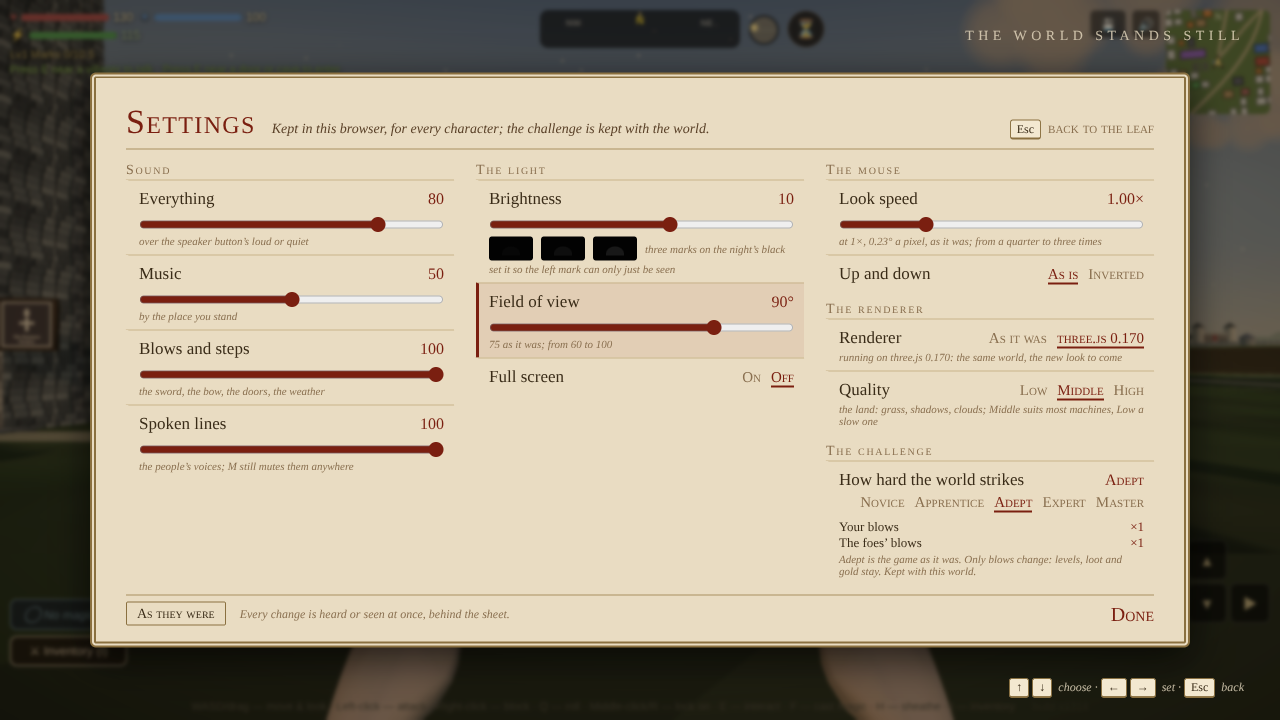
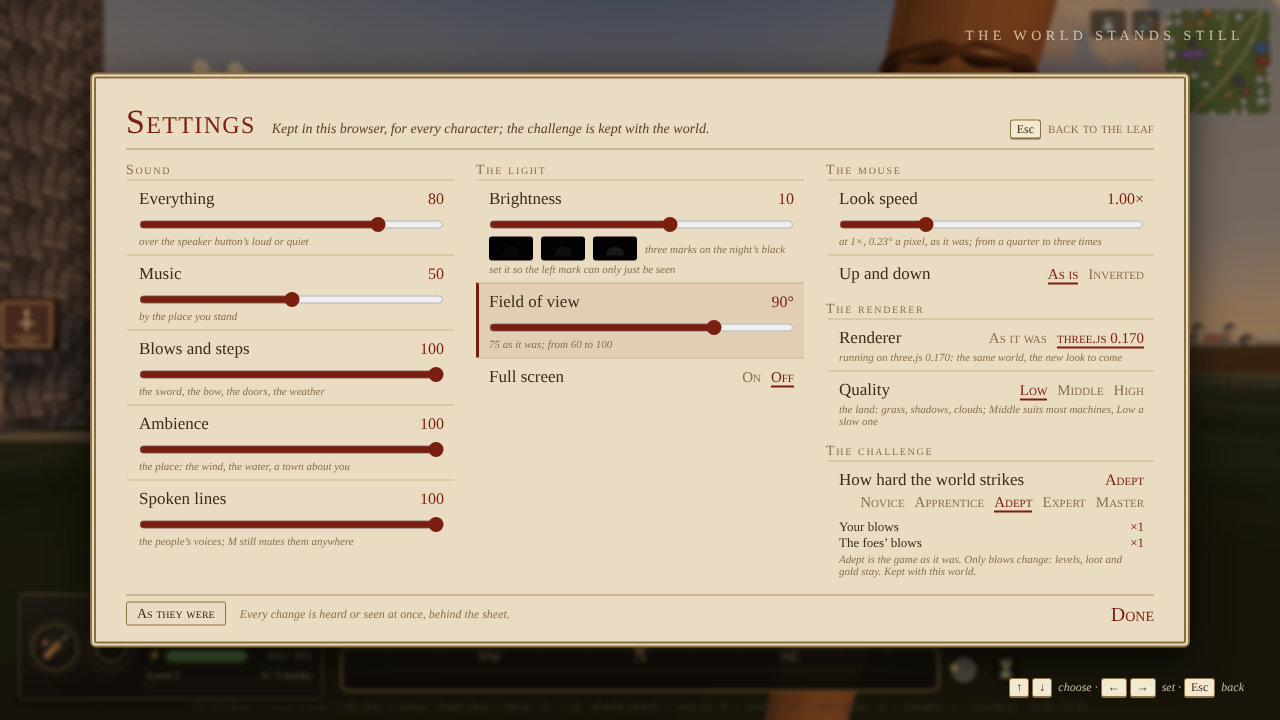
Systems: Session 2726 — what a place sounds like, 1: the Ambience bus, the wind and the water (#2071 B)
Claude-Session: https://claude.ai/code/session_019eFMMmJMQ1Hv4YA5VuFeri

diff --git a/js/72-audio.js b/js/72-audio.js
@@ -4,7 +4,7 @@
 // AUDIO SYSTEM
 // ══════════════════════════════════════════════════════════════════════════
 let AX=null; // AudioContext — created on first user interaction
-let masterGain=null,sfxGain=null,musicGain=null,uiGain=null;
+let masterGain=null,sfxGain=null,musicGain=null,uiGain=null,ambGain=null;
 let volLevel=2; // 0=mute 1=quiet 2=loud
 const VOL_ICONS=['🔇','🔉','🔊'];
 const VOL_MUSIC=[0,0.18,0.38];
@@ -27,6 +27,7 @@ function initAudio(){
     musicGain=AX.createGain();musicGain.gain.value=VOL_MUSIC[volLevel]*volKind('music');musicGain.connect(masterGain);
     sfxGain=AX.createGain();sfxGain.gain.value=VOL_SFX[volLevel]*volKind('effects');sfxGain.connect(masterGain);
     uiGain=AX.createGain();uiGain.gain.value=VOL_SFX[volLevel]*.28*volKind('effects');uiGain.connect(masterGain);
+    ambGain=AX.createGain();ambGain.gain.value=VOL_SFX[volLevel]*AMB_LEVEL*volKind('ambience');ambGain.connect(masterGain); /* S2726 — the Ambience bus (#2071 B) */
     if(_initialMusicOverride){
       startMusic(_initialMusicOverride.zone, _initialMusicOverride.theme);
     } else {
@@ -39,13 +40,14 @@ function cycleVol(){
   document.getElementById('vol-btn').textContent=VOL_ICONS[volLevel];
   applyVolumes();
 }
-// S691 — the settings sheet's four volumes (everything, music, blows and steps, spoken lines) over the button's level
+// S691 — the settings sheet's four volumes (everything, music, blows and steps, spoken lines) over the button's level; S2726 a fifth, the place's own sound (ambience)
 function volKind(k){return (SETTINGS.master/100)*(SETTINGS[k]/100);}
 function applyVolumes(){
   if(!AX)return;
   musicGain.gain.setTargetAtTime(VOL_MUSIC[volLevel]*volKind('music'),AX.currentTime,.1);
   sfxGain.gain.setTargetAtTime(VOL_SFX[volLevel]*volKind('effects'),AX.currentTime,.1);
   if(uiGain)uiGain.gain.setTargetAtTime(VOL_SFX[volLevel]*.28*volKind('effects'),AX.currentTime,.1);
+  if(ambGain)ambGain.gain.setTargetAtTime(VOL_SFX[volLevel]*AMB_LEVEL*volKind('ambience'),AX.currentTime,.1);
 }
 
 // ── SFX HELPERS ───────────────────────────────────────────────────────────
@@ -669,3 +671,84 @@ function sndReturnOW(){
   sfxTone(440,520,.6,.12,'sine');
   sfxTone(550,640,.5,.08,'sine');
 }
+
+// ── WHAT A PLACE SOUNDS LIKE (Session 2726; Michael's B on #2071, the build sheet's first session) ──────────────────
+// The Ambience bus: every bed → one lowpass (the weather's damping) → the duck (× 0.7 while a piece plays) → ambGain (the effects'
+// level × 0.6 × the Ambience slider) → master. Outdoors in the open world, two beds: the wind (by height and island; a wood's canopy
+// takes some and adds the leaves) and the nearest water within 80 m (a river, a lake's lapping, the sea's swell). Everything here is
+// cosmetic (Math.random, the page's clock) and writes nothing to worldState. The tick runs from the main loop, every 0.25 s, indoors
+// too, so the beds fade at a door or a gate's mouth instead of hanging. AMB is the state the suite (placesound) reads.
+const AMB_LEVEL=.6,AMB_TICK=.25,AMB_WATER_R=80,AMB_WATER_PEAK=.10;
+const AMB_DAMP={clear:[18000,1],fog:[2000,.7],rain:[1200,.6],snow:[3000,.8],storm:[900,.5]};
+const AMB={on:false,v:null,t:0,open:false,island:null,height:0,forest:false,beds:{wind:0,leaves:0,water:0,waterKind:null,waterD:Infinity},
+  gust:false,gustPh:0,gustP:7,gustMul:1,cut:18000,dampMul:1,duck:1,nodes:0};
+function ambEnsure(){if(AMB.v)return true;if(!AX||!ambGain)return false;
+  try{const n=AX.sampleRate*4,buf=AX.createBuffer(1,n,AX.sampleRate),d=buf.getChannelData(0);let b=0;
+    for(let i=0;i<n;i++){const w=Math.random()*2-1;b=b*.98+w*.02;d[i]=w*.5+b*3;} /* one 4 s noise with a brown body, shared by every bed */
+    const src=AX.createBufferSource();src.buffer=buf;src.loop=true;
+    const damp=AX.createBiquadFilter();damp.type='lowpass';damp.frequency.value=18000;damp.Q.value=.5;
+    const duck=AX.createGain();duck.gain.value=1;damp.connect(duck);duck.connect(ambGain);
+    const pan=AX.createStereoPanner?AX.createStereoPanner():null;if(pan)pan.connect(damp);const wOut=pan||damp;
+    let count=3+(pan?1:0);
+    const voice=(type,f,q,out)=>{const fl=AX.createBiquadFilter();fl.type=type;fl.frequency.value=f;fl.Q.value=q;const g=AX.createGain();g.gain.value=0;src.connect(fl);fl.connect(g);g.connect(out);count+=2;return {f:fl,g};};
+    const lapped=(type,f,q,hz,depth)=>{const lap=AX.createGain();lap.gain.value=1-depth;lap.connect(wOut);const o=AX.createOscillator();o.frequency.value=hz;const og=AX.createGain();og.gain.value=depth;o.connect(og);og.connect(lap.gain);o.start();count+=3;const v=voice(type,f,q,lap);v.lfo=o;return v;};
+    const v={src,damp,duck,pan,
+      wind:voice('bandpass',500,.7,damp),
+      leaves:voice('bandpass',4000,.8,damp),
+      river:voice('bandpass',900,1,wOut),
+      lake:lapped('lowpass',520,.5,.5,.45),          /* lapping at 0.5 Hz */
+      sea:lapped('lowpass',700,.4,1/(9+Math.random()*3),.6)}; /* the surf's 9–12 s swell */
+    src.start();AMB.v=v;AMB.nodes=count;AMB.on=true;return true;}catch(e){console.warn('ambience',e);return false;}}
+// the weather's damping: each kind's cutoff (blended in log frequency) and level, by how far the weather has turned (WX.k)
+function ambDampTarget(){const out=[18000,1];if(typeof WX==='undefined'||!WX)return out;const cur=WX.type,nxt=WX.next,mix=(nxt!==cur)?(WX.k||0):0;
+  let lf=0,m=0;const add=(t,w)=>{if(w<=0)return;const D=AMB_DAMP[t]||AMB_DAMP.clear;lf+=w*Math.log(D[0]);m+=w*D[1];};add(cur,1-mix);add(nxt,mix);
+  out[0]=Math.exp(lf);out[1]=m;return out;}
+// the nearest water within 80 m: a river or a lake from the routed carve grid (RVG, the same whether a cell is loaded or not),
+// the sea where the land is under SEA_Y on 8 bearings at 10, 25, 50 and 80 m (and under your feet). Returns {kind,d,bx,bz}.
+const _ambRs=[0,0];
+function ambFresh(x,z,R){let best=null;if(typeof RVG==='undefined'||typeof riverSample!=='function')return best;if(typeof RV!=='undefined'&&!RV.ready&&typeof routeWorld==='function')routeWorld();
+  const gx=Math.floor(x/RVSG),gz=Math.floor(z/RVSG),seen=new Set();
+  for(let i=gx-1;i<=gx+1;i++)for(let j=gz-1;j<=gz+1;j++){const bk=RVG.get(sgKey(i,j));if(!bk)continue;
+    for(const e of bk){if(e.lk){if(seen.has(e.lk))continue;seen.add(e.lk);const d=Math.max(0,Math.hypot(x-e.lk.x,z-e.lk.z)-e.lk.r);if(d<R&&(!best||d<best.d))best={kind:'lake',d,bx:e.lk.x,bz:e.lk.z};continue;}
+      riverSample(e.rv,e.i0,e.i1,x,z,_ambRs);const d=Math.max(0,_ambRs[0]-_ambRs[1]);if(d<R&&(!best||d<best.d))best={kind:'river',d,bx:x,bz:z};}}
+  return best;}
+function ambWater(x,z){let best=ambFresh(x,z,AMB_WATER_R);const fresh=best;
+  const wet=(sx,sz)=>{if(worldH(sx,sz)>=SEA_Y)return false;const f=ambFresh(sx,sz,1);return !f||f.d>0;}; /* under sea level, and not a lake's or a river's bed */
+  if(wet(x,z))return {kind:'sea',d:0,bx:x,bz:z};
+  let r0=0;for(const r of [10,25,50,80]){if(best&&best.d<=r)break;for(let k=0;k<8;k++){const a=k*Math.PI/4,sx=x+Math.sin(a)*r,sz=z+Math.cos(a)*r;
+    if(wet(sx,sz)){let lo=r0,hi=r;for(let n=0;n<4;n++){const m=(lo+hi)/2;if(wet(x+Math.sin(a)*m,z+Math.cos(a)*m))hi=m;else lo=m;} /* the shore found along that bearing to a metre or so */
+      if(!best||hi<best.d)best={kind:'sea',d:hi,bx:x+Math.sin(a)*hi,bz:z+Math.cos(a)*hi};}}if(best&&best.kind==='sea')break;r0=r;}
+  return best||fresh;}
+function ambSet(p,v,t,tau){try{p.setTargetAtTime(v,t,tau);}catch(e){p.value=v;}}
+function tickAmbience(dt){
+  const now=performance.now()/1000;if(now-AMB.t<AMB_TICK)return;AMB.t=now;
+  if(!AX||!ambGain)return;
+  const open=typeof activeZoneId!=='undefined'&&activeZoneId==='world'&&lid==='overworld'&&!(typeof isInterior==='function'&&isInterior());
+  AMB.open=open;if(!open&&!AMB.v)return;if(!ambEnsure())return;
+  const V=AMB.v,t=AX.currentTime,B=AMB.beds;
+  // the music's duck, eased over 3 s
+  const playing=typeof EXPLORE!=='undefined'&&EXPLORE.playing;AMB.duck=playing?.7:1;ambSet(V.duck.gain,AMB.duck,t,1);
+  // the damping
+  const D=open?ambDampTarget():[18000,1];AMB.cut=D[0];AMB.dampMul=D[1];ambSet(V.damp.frequency,D[0],t,.6);
+  if(!open){B.wind=B.leaves=B.water=0;B.waterKind=null;B.waterD=Infinity;AMB.gust=false;
+    for(const k of ['wind','leaves','river','lake','sea'])ambSet(V[k].g.gain,0,t,.33);return;} /* the world's beds fade over 1 s at the door */
+  // the wind: 0.05 at sea level, +0.03 per 50 m, at most 0.14; by island
+  let h=0;try{h=Math.max(0,worldH(px,pz)-SEA_Y);}catch(e){}AMB.height=h;
+  let isle='gatelands';try{const n=nationAt(px,pz);if(n==='mark'||n==='aurenne')isle=n;}catch(e){}AMB.island=isle;
+  let wind=Math.min(.14,.05+.03*h/50);
+  if(isle==='mark'){AMB.gust=true;AMB.gustPh+=AMB_TICK/AMB.gustP;if(AMB.gustPh>=1){AMB.gustPh-=1;AMB.gustP=5+Math.random()*5;}
+    const s=.5+.5*Math.sin(AMB.gustPh*Math.PI*2),lo=h>150?.4:.5,hi=h>150?1.9:1.6;AMB.gustMul=lo+(hi-lo)*s;wind*=AMB.gustMul;
+    ambSet(V.wind.f.frequency,620,t,.5);V.wind.f.type='bandpass';V.wind.f.Q.value=.5;}
+  else{AMB.gust=false;AMB.gustMul=1;
+    if(isle==='aurenne'){V.wind.f.type='lowpass';ambSet(V.wind.f.frequency,350,t,.5);V.wind.f.Q.value=.4;}
+    else{V.wind.f.type='bandpass';ambSet(V.wind.f.frequency,500,t,.5);V.wind.f.Q.value=.7;}}
+  let forest=false;try{forest=typeof specBiome==='function'&&specBiome(px,pz)==='forest';}catch(e){}AMB.forest=forest;
+  if(forest)wind*=.6;
+  B.wind=wind;B.leaves=forest?.035:0;
+  // the water
+  let W=null;try{W=ambWater(px,pz);}catch(e){}
+  const lvl=W?AMB_WATER_PEAK*Math.pow(Math.max(0,1-W.d/AMB_WATER_R),2):0;B.water=lvl;B.waterKind=W?W.kind:null;B.waterD=W?W.d:Infinity;
+  if(V.pan&&W){const dx=W.bx-px,dz=W.bz-pz,L=Math.hypot(dx,dz);ambSet(V.pan.pan,L>1?Math.max(-1,Math.min(1,(dx*Math.cos(yaw)-dz*Math.sin(yaw))/L*.6)):0,t,.2);}
+  const M=AMB.dampMul;
+  ambSet(V.wind.g.gain,B.wind*M,t,.4);ambSet(V.leaves.g.gain,B.leaves*M,t,.4);
+  for(const k of ['river','lake','sea'])ambSet(V[k].g.gain,(B.waterKind===k?lvl:0)*M,t,.4);}

diff --git a/js/92-creator.js b/js/92-creator.js
@@ -927,6 +927,7 @@ function settingRows(){const r=[
   {k:'master',g:'Sound',w:'Everything',min:0,max:100,st:5,note:'over the speaker button’s loud or quiet'},
   {k:'music',w:'Music',min:0,max:100,st:5,note:'by the place you stand'},
   {k:'effects',w:'Blows and steps',min:0,max:100,st:5,note:'the sword, the bow, the doors, the weather'},
+  {k:'ambience',w:'Ambience',min:0,max:100,st:5,note:'the place: the wind, the water, a town about you'}, /* S2726 — #2071 B */
   {k:'voices',w:'Spoken lines',min:0,max:100,st:5,note:'the people’s voices; M still mutes them anywhere'},
   {k:'bright',g:'The light',w:'Brightness',min:-50,max:50,st:5,note:'set it so the left mark can only just be seen',marks:true},
   {k:'fov',w:'Field of view',min:60,max:100,st:5,fmt:v=>v+'°',note:'75 as it was; from 60 to 100'},
@@ -947,7 +948,7 @@ function settingSet(row,v){
     else if(row.k==='quality'){SETTINGS.quality=v;SETTINGS.qualityProbed=true;settingsSave();qualityApply();} /* S1341 — every knob of the level, not the land's alone; S1352 — a level chosen is never probed */
     return;}
   v=Math.max(row.min,Math.min(row.max,Math.round(v/row.st)*row.st));SETTINGS[row.k]=+v.toFixed(2);settingsSave();
-  if(['master','music','effects','voices'].includes(row.k)&&typeof applyVolumes==='function')applyVolumes();
+  if(['master','music','effects','ambience','voices'].includes(row.k)&&typeof applyVolumes==='function')applyVolumes();
   if(row.k==='bright')settingsLight();}
 // S822 (F1) — the renderer: kept in this browser as og.renderer and read by index.html's head script before the game loads,
 // so it takes hold on a reload. Since 18 Oct 2026 the new look is the default and the setting keeps only 'old', the way back. Chosen on the title screen it reloads at once; in play it waits, so nothing unsaved is lost.

diff --git a/js/10-player.js b/js/10-player.js
@@ -249,7 +249,7 @@ function _clearOffhandForTwoHander(reason){
 // S691 — the settings (Michael's B on #208): kept in this browser under 'og.settings', for every character, never in a save. The volumes
 // are percentages over the loud/quiet/off button's levels (`applyVolumes`, 72-audio.js); look speed multiplies the mouse's .004 a
 // pixel; brightness is a CSS filter on the canvas; the field of view is the resting one (sprint adds 10, a lunge 17, as before).
-const SETTINGS_DEF={master:100,music:100,effects:100,voices:100,look:1,invert:false,bright:0,fov:75,quality:1,qualityProbed:false}; // quality: the new look's drawing (S1181, F3; the table QUALITY, S1341), 0 low, 1 middle, 2 high; qualityProbed: the first-run probe has decided, or the row was moved (S1352)
+const SETTINGS_DEF={master:100,music:100,effects:100,ambience:100,voices:100,look:1,invert:false,bright:0,fov:75,quality:1,qualityProbed:false}; // quality: the new look's drawing (S1181, F3; the table QUALITY, S1341), 0 low, 1 middle, 2 high; qualityProbed: the first-run probe has decided, or the row was moved (S1352)
 const SETTINGS=Object.assign({},SETTINGS_DEF);
 try{const s=JSON.parse(localStorage.getItem('og.settings')||'{}');for(const k in SETTINGS_DEF)if(typeof s[k]===typeof SETTINGS_DEF[k])SETTINGS[k]=s[k];}catch(e){}
 function settingsSave(){try{localStorage.setItem('og.settings',JSON.stringify(SETTINGS));}catch(e){}}

diff --git a/js/90-main.js b/js/90-main.js
@@ -852,6 +852,7 @@ function loop(now){
   if(typeof tickFlagstone==='function')tickFlagstone(); /* S1353 — the Ashfeld's flagstone */
   if(typeof tickBladeStone==='function')tickBladeStone(); /* S802 — the Gate-Blade's stone, and its first sight */
   if(typeof tickBellWreck==='function')tickBellWreck(); /* S801 — the Drowned Bell's wreck, set by the tide, and its first sight */
+  if(typeof tickAmbience==='function')try{tickAmbience(dt);}catch(e){} /* S2726 — the place's own sound (#2071 B), indoors too so the beds fade at the door */
   if(lid==='overworld'){
     // v80 — streamed world: chunk streaming + atmosphere. Runs before the zone chain.
     if(activeZoneId==='world'&&typeof WORLD!=='undefined')WORLD.tick(dt,now);

diff --git a/docs/backlog.md b/docs/backlog.md
@@ -1047,7 +1047,7 @@ Michael marked all 96 images of the intake on the review page: 63 KEEP and 33 NO
 - **Light indoors** (cards F2 and F3, `buildInteriorFor`; OG-141): daylight through windows at four times; the hearth, candles and lanterns for small pools of light, torches on corridor walls, a ring chandelier for halls; a cottage lit by its hearth, a longhouse shut and fire-lit, an Aurennais house open to the sea; a tavern warm and crowded in the evening; dust in the beams, reflections on wet stone, magic light from a hand. Warm and inviting against cold and unsettling, the 12 Oct answer in two frames. **Three rooms lit by one rule as a prototype, 26 Oct 2026** (concept artist; `docs/prototypes/levelup/light.html`, `docs/concepts.md`): the openings, fires and lamps read from each room's own record, the sun's patches and dust in the beams, four hours and a hand's light; how bright a room is by night against the day is DECISION #765. Michael's C (*the lights, with the eye half open*). Carried into the game room by room: the day in through each opening (`kitDaylight`), the longhouse and the barn in Session 1490, the byre in Session 1493 (26 → 57 at noon). Measured in Session 1493 from the arrival, noon/23h: the cottage 152/139 (the night nearly the day's, against C's 0.66; the fire's reach, not the openings: the windows' spots added 12 at most), the townhouse 120/55, the farmhouse 127/55; in Session 1506 the village taproom 19/27 (darker by day than by night: no openings lit), now 40/27 with a sky spot in its door and each window at 0.4, and the coaching room 106/89, left as it is; in Session 1507 the Mark's alehall 14/14, now 25/14 with the longhouse's spots in its eight windows and door; in Session 1512 Aurenne's tavern 44/55 (darker by day), now 81/55 with a spot in the ground floor's door and five windows at 0.55; the Church of the Weaver 208/148, left as it is (its oculus follows the hour); in Session 1513 a generated church (the village's and Dunmore's, `buildInteriorFor`) 64/64, the day never in, now 103/64 with a spot in each tall window at 0.25; the night's eye (`landPost`'s exposure) still owed. **The halls' fixtures as a prototype, 27 Oct 2026** (concept artist; `docs/prototypes/levelup/halls.html`, `docs/concepts.md`): torches, candle sconces, lamp stands and wall lamps over the guild hall, the Mark's alehall, Aurenne's tavern and the inn's crowded evening, under C; which fixtures a hall carries (A the room's own, B torches everywhere, C by island) is the DECISION in that entry. Michael's C on #805 (28 Oct 2026): each island its own. **Into the game, Session 1521:** the fixtures in the kit (`PKIT.halls.fixtures`, `js/38-kit.js`, copied from `halls.js`), and the Mark's alehall's six torches, three a side wall between its windows, each its own light by the hour; **Session 1522:** the Gatelands inn's taproom, a candle sconce in each clear stretch of its front and back walls (4 on three bays, 3 on two) and a candle on each table, the small flames one mesh a room; **Session 1523:** Aurenne's tavern, a bronze wall lamp in each clear stretch of its east, west and back walls (3: clear of the windows, the stair and its landing, the cooking bench and the counter's shelves; the front's arcade left to the street) and two lamp stands at the clear spots nearest the concept's, each a solid, 2,850 triangles in 6 draws (the room at 49 of 50); ~~still owed: the Gatelands guild hall's sconces and table candles (the game's guild hall is still the old generated room, 32 by 29 m true, not rooms.js's 13 by 7.6 m hall: the kit's hall inside first, card F9)~~ — done, Session 1921 (the kit's hall inside since Session 1703; `buildKitGuildHall`): a candle sconce in each clear stretch of the hall's front and back walls (none on the front: its two tall lights, the great door's open leaf and the Fighters' stands or the Mages' still fill it; one or two on the back between the windows, the rack or shelves and the board), one on the partition between the stair's foot and the steward's door, one on the hall's face of each of the gallery's three posts, and two candles on the long table: 6 sconces in the Fighters' hall, 5 in the Mages', 4,370–5,100 triangles in 6 draws; `kitguild` +2.
 - **Animals by the hour** (systems, after L3's animals; OG-142, Michael's note): deer moving at dawn, predators at dusk, an owl at night; wolves running deer through snow, the rut, geese passing; animals sheltering from rain, fog hiding them; tracks in snow, a nest of eggs; a spirit stag as a rare sight (OG-040). No taming. **Asked, Session 1984** (DECISION #1293: A the hour and the rain in the wild tables, one session, recommended; B A and the scenes; C the designer's page first). Today the tables read the hour only for the Badger and the Lantern Beetle, by night. **Michael: A.** ~~The hour and the rain in the tables~~ — done, Session 2005 (`wildPart`, `wildWeight`, `WILD_HOUR`: dawn's grazers ×2 and a head more, dusk's hunters ×2, night's grazers ×½, rain, storm or snow one chunk in eight). The scenes, the owl, geese and the spirit stag remain.
 - **A town's day** (`tickTownNPCs`, the shops' hours in `60-shop.js`; OG-143): workers fill the streets at dawn and the guard changes, shops open late morning, trade peaks in the afternoon, shops close and taverns fill from five, guards alone at night; three markets by island with prices by place and a black market; passing events (a caravan, a noble's visit, a raid near gate activity, rebuilding); growth and decline, which the prosperity model already runs (§12a). No companions to recruit. **Michael's B on #1971 (24 Nov): the street by the hour, plus market day and prices by place** (`docs/design/a-towns-day.md`; five systems sessions and one look). ~~Shop hours by trade (the forge and shipwright 7–17, the apothecary 9–17, the armourer 9–18, the goods shop 9–19, the barber 10–18; the inn from 17)~~ — done, Session 2630 (`SHOP_HRS`, `shopHours`, `HRS.inn`, `js/82-world-structures.js`; `tests/shophours`). ~~The handover seen at the gate, the work spots at 7–9, the square at 60/100/20%~~ — done, Session 2632 (`dayShare`, `workSpots`, `handoverGate`; `tests/shophours` +4); ~~the night from 23 waits on a decision (S2632: the burglary's household is home and awake 21–23)~~ — kept at 21 (Michael's B on #2008: the inn 17–21, home and awake until 23, as built in Session 2632; nothing to change, Session 2650). ~~Market day's rule: the Gatelands' Stoneday, the Mark's Beastday, Aurenne's Seaday, 7–15, a town, port or city not burned, sacked, plagued, abandoned, besieged or occupied; every counter in the town ×0.9 to buy and +10% to sell; the Journal's Due view lists the island's next~~ — done, Session 2642 (`MARKET`, `marketOn`, `marketHere`, `nextMarket`, `js/60-shop.js`; `tests/shophours` +2, `tests/due` re-read). Owed: ~~the knock at favour 2 for ×1.25 (#2009)~~ — done, Session 2650 (Michael's A: E knocks, then E again picks; `knockDoor`, `knockPrompt`, `knockMulNow`, `js/86-world-crime.js`; `tests/shophours` +2; the keeper's line when they come down is owed to the quest writer); ~~the square filled from 7 to 15 on market day (`feastNow`, `82-world-structures.js`) and the stalls as counters of their own (4 + prosperity ÷ 25)~~ — done, Session 2647 (`tickMarketStalls`, `marketStallSpots`, `marketStallPack`, `js/87-world-quests.js`; `tests/shophours` +2); owed to the look builder: a stall mesh at each spot `marketStallSpots` adds past the square's own stalls, and the Mark's and Aurenne's stalls; ~~prices by home (an island's make ×0.85 at home and ×1.2 abroad, to buy and to sell)~~ — done, Session 2643 (`itemHome`, `homeMul`: a made weapon's or implement's `make` and a herb's `herbIsland`; armour, cloaks and food keep no home until a table is chosen; `tests/shophours` +1, `barter` re-measured); ~~the foreign stall and the road~~ — done, Session 2713 (`marketForeignPack`, `marketForeignStall`: a port's first stall sells the other two islands' goods, a made weapon of each make and 3–5 of their herbs, kept by one of their people, at the counter's ×1.3; the road's eve: `roadTravellers` adds a merchant bound for each end whose market is tomorrow, `js/87-world-quests.js`; `tests/shophours` +3). B's systems sessions are built; owed: the look's stalls (above).
-- **What a place sounds like** (`76-music.js`, `72-audio.js`, `tickFootsteps`; OG-144): a palette per island (wind in grass, streams and church bells; howling gusts, ravens and creaking timber; surf, gulls and a market); a village, a tavern, a keep in layers; rain muffling the world, fog damping it; footsteps by ground (stone, wood, mud, snow); a stable gate's low hum and an unstable gate's distorted whispers, so a gate's condition is heard before it is seen. The falls off the road are heard (Session 2084, `tickFallsSound` in `88-world-ticks.js`: a looped noise from the fall's foot, 0.18 at the pool, 8/d to nothing at 140 m, a rumble far off, panned; the look builder's S2071 owed it). The rest of the palette waits on its page. **Proposal, 26 Nov 2026** (the designer; `docs/design/what-a-place-sounds-like.md`): A the palette (an Ambience bus and slider; beds of wind, water and a town's murmur, spots, calls by island and hour; rain and fog damping; rooms' echo; footsteps of eight grounds; herbs by kind; three systems sessions); B that plus sound that tells you something (a gate heard by condition to 80/120/160 m, beds by school inside, an undertone from corruption level 3, the ground scaling the hearing rule ×0.8 to ×1.3, the music resting 45–90 s between pieces outdoors; five sessions; recommended); C B from a CC0 recording pack of 6–8 MB. Asked as a DECISION.
+- **What a place sounds like** (`76-music.js`, `72-audio.js`, `tickFootsteps`; OG-144): a palette per island (wind in grass, streams and church bells; howling gusts, ravens and creaking timber; surf, gulls and a market); a village, a tavern, a keep in layers; rain muffling the world, fog damping it; footsteps by ground (stone, wood, mud, snow); a stable gate's low hum and an unstable gate's distorted whispers, so a gate's condition is heard before it is seen. The falls off the road are heard (Session 2084, `tickFallsSound` in `88-world-ticks.js`: a looped noise from the fall's foot, 0.18 at the pool, 8/d to nothing at 140 m, a rumble far off, panned; the look builder's S2071 owed it). The rest of the palette waits on its page. **Proposal, 26 Nov 2026** (the designer; `docs/design/what-a-place-sounds-like.md`): A the palette (an Ambience bus and slider; beds of wind, water and a town's murmur, spots, calls by island and hour; rain and fog damping; rooms' echo; footsteps of eight grounds; herbs by kind; three systems sessions); B that plus sound that tells you something (a gate heard by condition to 80/120/160 m, beds by school inside, an undertone from corruption level 3, the ground scaling the hearing rule ×0.8 to ×1.3, the music resting 45–90 s between pieces outdoors; five sessions; recommended); C B from a CC0 recording pack of 6–8 MB. Asked as a DECISION. **Michael: B (#2071, 26 Nov)**; the build sheet `docs/design/what-a-place-sounds-like-build.md`, five systems sessions. ~~1. The bus, the slider, `tickAmbience`, wind and water, the damping and the duck~~ — done, Session 2726 (`AMB`, `ambGain`, `ambWater`, `ambDampTarget`, `72-audio.js`; the settings sheet's Ambience row; `placesound` new, `settingsheet` +1). Next: 2 the town and the hours (murmur, spots, calls, indoors, the rooms' echo); 3 `groundKind` and the ground in the hearing rule; 4 a gate heard outside; 5 beds by school inside a gate and the music's rest.
 - **The gates unsettling the world** (card F3's corruption level and card F5; OG-145): four stages from a quiet ruin on a hill through blue light in the doorway and floating debris to a red sky and a black sun in a ring; spreading signs: floating rocks, mirages and doubled ruins, figures from another time, rifts, aurora and shifting skies, twisted violet trees on barren ground, a stag that watches, locals building warding sites. The great gates stay cut into cliffs; the free-standing arches serve lesser gates and Weaver ruins. **The corruption level 0 to 6 as a prototype, 20 Oct 2026** (concept artist; `docs/prototypes/levelup/corruption.html`, `docs/concepts.md`): grade, sky, light, clouds, trees and the near-gate signs as one row of numbers a level; how torn gates show their school is the open DECISION. ~~**The number itself (the systems builder's part of F12)**~~ — **done, Session 1340** (`tests/corruption`: `setGreatGate(school,'torn'|'sealed')`, the named action; `corruptionLevel()`, the count torn, 0 to 6; `corruptionTorn()`, the torn schools for each one's horizon colour, Michael's B on #531; `greatFate()`, fixed once all six match; `worldState.greatGates`, the world row). Owed: the great gates in the world (backlog A) to call it, and the look's reads (F12).
 - ~~**The back of a kit townhouse shows its windows and back door as black holes**~~ — **no fault, Session 1440** (the spot was inside Niamh's House: its front seen from within its own shell; struck in Session 1598, #742 having landed) (build s928, critic 26 Oct): Dunmore at 13h, on the grass 10 m out along `g_dunmore_19`'s facing, turned left 0.6 rad: the rear of the next house (nearest solid `g_dunmore_27`, Niamh's House, 3 bays) has three storeys of openings and an arched door in flat black, with no glass, sash or leaf; the fronts beside it have both. `docs/critic/2026-10-26-dunmore-blackwindows.png`. For the look builder.
 - ~~**The stuck cart gives no prompt while you stand at the cart** (build s1330, critic 7 Nov): `erCartQ` reads 3 m round the road's centre point, and `erCartPlace` sets the cart 3.2 m off it in the ditch. Dunmore, Fionn the carter's (or Niamh the cooper's) cart on the north road, 10h: stand beside the cart, on either side of it, and there is no "Press 'E' to see to the cart"; step back onto the road's edge (1.8 m) and it shows. Measure from the cart, or widen to about 4.5 m. For the systems builder.~~ — done, Session 1961 (`erCartQ` answers within 3 m of the road's point or of the cart in the ditch; `errands` checks both sides)

diff --git a/docs/devlog/2726.md b/docs/devlog/2726.md
@@ -1,0 +1,62 @@
+## v80 — Session 2726 — what a place sounds like, 1: the Ambience bus, the wind and the water
+*Written as 2725 and renumbered 2726 before the push: the look builder's run took 2725 (PR #2111) while this one worked.*
+The systems builder's run of 27 Nov, on `auto/systems-2726` from origin/main at s2038. No `FREEZE:` issue was open, the last systems
+branch (2720) had landed, section I names nothing open for this lane, and the quest review's run 59 is clean. Michael answered #2071 on
+26 Nov: **"A, plus sound that tells you something" (B)**. The designer's build sheet (`docs/design/what-a-place-sounds-like-build.md`)
+splits it into five systems sessions; this is the first: the bus, the slider, the tick, the wind and the water, the damping and the duck.
+
+**What was wrong.** Outside a fight, the world's sound was the exploring orchestra, the rain, the falls and your feet. An island had no
+air of its own, and a shore sounded like a field.
+
+**What changed.**
+- `js/72-audio.js`: a fourth bus, `ambGain`: the effects' level × 0.6 × `volKind('ambience')`, set in `initAudio` and `applyVolumes`. Every
+  bed goes through one lowpass (the damping), then a gain (the duck), then `ambGain`. One 4 s noise buffer and one looping source feed every
+  bed through its own filter and gain: 20 live nodes, under the sheet's 40.
+  - **The duck**: × 0.7 while an exploring piece plays (`EXPLORE.playing`), eased over 3 s.
+  - **The damping** (`ambDampTarget`): clear 18 kHz at × 1, fog 2,000 Hz at × 0.7, rain 1,200 at × 0.6, snow 3,000 at × 0.8, a storm 900
+    at × 0.5. While the weather turns, the cutoff is blended in log frequency by `WX.k`, so clear half turned to rain is 4,648 Hz.
+  - **The wind**: 0.05 at sea level, + 0.03 per 50 m of the ground's height, at most 0.14. By island (`nationAt`):
+    - the Gatelands a soft 500 Hz band;
+    - Aurenne a 350 Hz lowpass;
+    - the Mark a 620 Hz band with a gust that swings it × 0.5 to × 1.6 over a 5–10 s period, × 0.4 to × 1.9 above 150 m.
+    - In a wood (`specBiome` forest) the wind is × 0.6, and the leaves' 4 kHz hiss comes in at 0.035.
+  - **The water** (`ambWater`): the nearest within 80 m, at 0.10 × (1 − d/80)².
+    - A river or a lake is read exactly from the routed carve grid (`RVG`, `riverSample`; the bank, not the middle).
+    - The sea is read from 8 bearings at 10, 25, 50 and 80 m where the land is under `SEA_Y` and is not a lake's or a river's bed. The
+      first bearing that finds it is bisected to about a metre, since the rings alone made a shore at 15 m read as 25.
+    - A river is a 900 Hz band. A lake laps at 0.5 Hz, and the sea swells every 9–12 s, each an oscillator on its gain. The water is panned
+      toward where it lies, as the falls are. The falls keep their own loop.
+  - `tickAmbience` runs every 0.25 s on the page's clock, called from the main loop (`90-main.js`, one line beside the cairns' ticks), so
+    it runs indoors and underground too. Out of the open world every bed fades to nothing over about 1 s. `AMB` holds what it decided.
+  - Every roll is cosmetic (`Math.random`), and nothing writes `worldState`.
+- `js/10-player.js`: `SETTINGS_DEF.ambience` 100, kept in `og.settings` (an older store without it reads 100).
+- `js/92-creator.js`: the settings sheet's row **Ambience** under *Blows and steps* (*the place: the wind, the water, a town about you*),
+  and `settingSet` applies it at once. *As they were* puts it back to 100.
+
+Each next session adds its sounds to this bus: 2 the town and the hours (murmur, the forge, the bell, calls, the rooms' echo); 3 the
+ground underfoot and the hearing rule; 4 a gate heard outside; 5 a gate's school inside and the music's rest.
+
+### Verified (headless Chromium)
+- `placesound` (new) 11/11:
+  - The bus at 0.33 against the effects' 0.55 (× 0.6), 0 at 0 and 0.165 at 50.
+  - The home province: the Gatelands' wind 0.0527 at 4.4 m, no gust; 20 nodes.
+  - A shore 8.8 m from the sea: the sea's bed at 0.0793 (= 0.1 × (1 − 8.8/80)²). Inland at 26.7 m height with no water within 80 m:
+    the water silent.
+  - The Mark's highest ground: the gust on, swinging the wind across its range.
+  - The damping's five pairs exact, a half-turned weather 4,648 Hz, and the bus's filter itself read 1,200 Hz 3 s into the rain (the page's
+    audio clock ran).
+  - The duck 0.7 while a piece plays and 1 while it rests; in a dungeon every bed 0; no page errors.
+- `settingsheet` 14/14 (+1), 726 s alone here: ← on Ambience is 95, the bus at 0.95 of its level, kept in `og.settings`; → puts it back. It is one press each way,
+  since every press waits a frame (0.84 s a frame here). A first try of 40 presses (to 0 and 50) cut the suite at its 900 s cap; placesound
+  measures 0 and 50 instead. The ↓ counts past the new row move by one, the row list gains *Ambience*, and *As they were* also checks it
+  back at 100.
+- The tick's cost: 0.17 ms on the home province and 0.06 ms on the shore, against a frame of 838 ms on software GL (a throwaway probe).
+- `parsecheck` OK.
+
+### Needs eyes
+- The levels are the build sheet's mixer numbers, unheard by anyone: whether the wind at 0.05 sits under the footsteps, and whether the
+  sea's swell reads as surf on laptop speakers, is the critic's next walk.
+- Seed 1's Mark never rises above about 126 m (sampled on a 120 m grid), so the over-150 m gust (× 0.4 to × 1.9) is built but no
+  suite stands there. The wind's 0.14 cap is reached only at 150 m, so the Mark's fells sit near 0.12 before the gust.
+- The wind reads the ground's height under you, so on a ship it is the sea level's 0.05. The ship's own creak and the sea's open-water
+  sound are not on the sheet.
